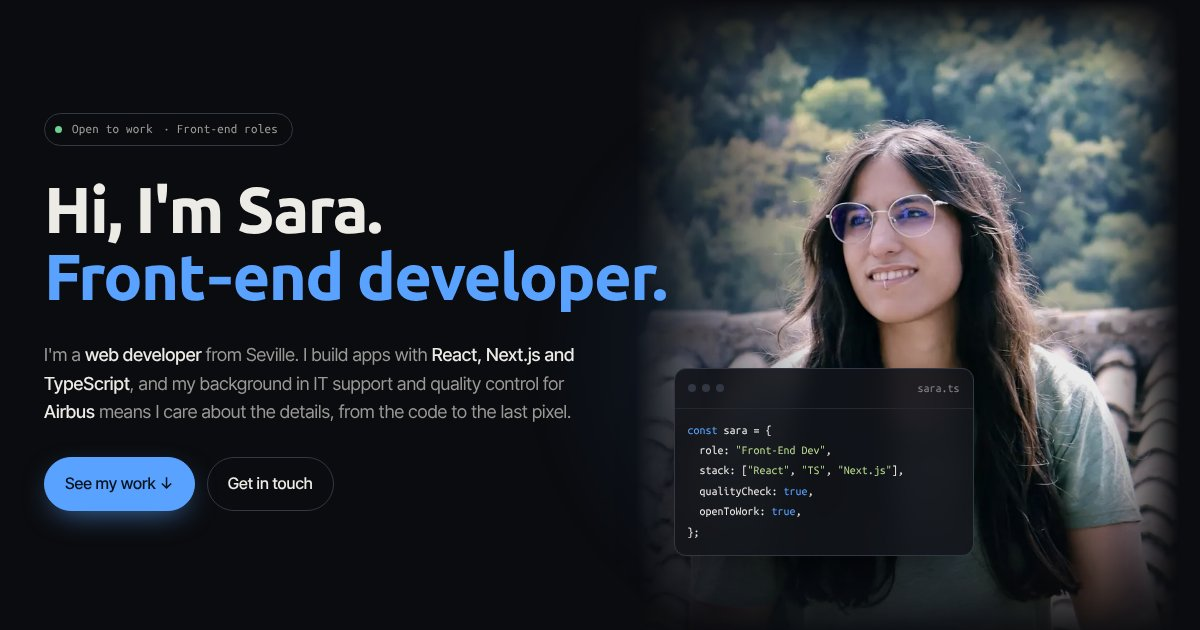
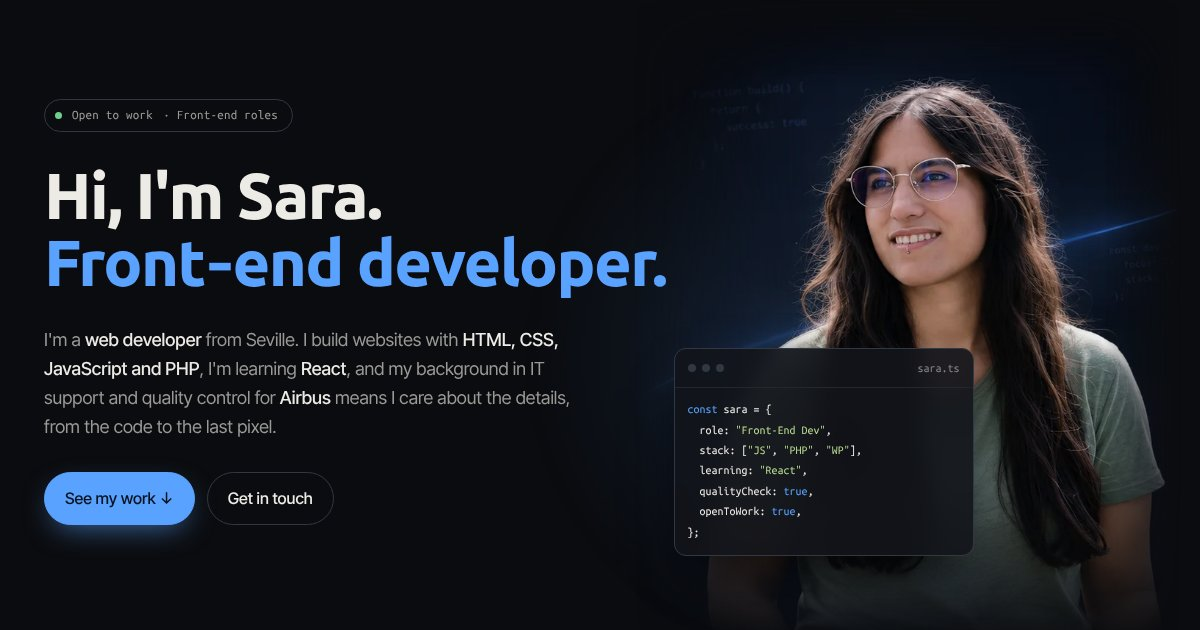
Foto nueva en la portada y en la imagen para compartir

diff --git a/src/components/Hero.tsx b/src/components/Hero.tsx
@@ -28,7 +28,7 @@ export default function Hero() {
           </div>
         </div>
         <div className="photo">
-          <Image src="/sara-hidalgo.webp" alt="Sara Hidalgo" width={900} height={895} priority />
+          <Image src="/sara-hidalgo-foto.webp" alt="Sara Hidalgo" width={900} height={871} priority />
           <div className="code" aria-hidden="true">
             <header>
               <i></i>
